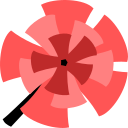
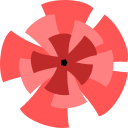
Put flowers on their own pedicels

Changed region(s): [[0.0, 0.6562, 0.3438, 1.0]]

diff --git a/src/pedicel.js b/src/pedicel.js
@@ -1,0 +1,52 @@
+(() => {
+    'use strict'
+
+    const { Vec2 } = window.joq
+
+    const step = 9.
+
+    function Pedicel (position, rotation, rotationIncrement) {
+        this.alive = true
+
+        this.position = position.clone()
+        this.rotation = rotation
+
+        this.rotationIncrement = rotationIncrement
+        this.scale = .9
+
+        this.cooldown = 40
+    }
+
+    Pedicel.prototype.tick = function (blobbery, plant) {
+        console.log(this.cooldown)
+        blobbery.add('body', this.position, this.rotation, this.scale)
+
+        this.position.add(new Vec2(
+            Math.cos(this.rotation) * this.scale * step,
+            Math.sin(this.rotation) * this.scale * step,
+        ))
+
+        this.rotation += this.rotationIncrement
+        this.rotationIncrement *= 1.02
+
+        if (this.scale > .1) {
+            this.scale -= .01
+        } else {
+            this.scale = .1
+            this.alive = false
+            blobbery.add('flower', this.position, this.rotation, Math.random() * .5 + .5)
+            return
+        }
+
+        if (this.cooldown > 0) {
+            this.cooldown--
+        } else {
+            this.alive = false
+            blobbery.add('flower', this.position, this.rotation, Math.random() * .5 + .5)
+        }
+    }
+
+    Object.assign(window.joq, {
+        Pedicel,
+    })
+})()

diff --git a/src/branch.js b/src/branch.js
@@ -1,7 +1,7 @@
 (() => {
     'use strict'
 
-    const { Vec2 } = window.joq
+    const { Pedicel, Vec2 } = window.joq
 
     const step = 9.
 
@@ -44,14 +44,21 @@
         } else {
             this.cooldown = Math.floor(Math.random() * 6 + 6)
 
-            const random = Math.random()
+            if (plant.bareMode) {
+                blobbery.add('needle', this.position, this.rotation, Math.random() * .5 + .5)
+            } else {
+                const random = Math.random()
 
-            const image = plant.bareMode ? 'needle'
-                : random > .7 ? 'leaf'
-                : random > .6 ? 'flower'
-                : 'needle'
+                if (random > .9) {
+                    const pedicel = new Pedicel(this.position, this.rotation, -this.rotationIncrement * 1.3)
+                    pedicel.scale = this.scale * .7
 
-            blobbery.add(image, this.position, this.rotation, Math.random() * .5 + .5)
+                    plant.add(pedicel)
+                } else {
+                    const image = random > .6 ? 'leaf' : 'needle'
+                    blobbery.add(image, this.position, this.rotation, Math.random() * .5 + .5)
+                }
+            }
         }
     }
 

diff --git a/index.html b/index.html
@@ -42,6 +42,7 @@
     <script src="src/vec2.js"></script>
     <script src="src/renderer.js"></script>
 
+    <script src="src/pedicel.js"></script>
     <script src="src/branch.js"></script>
     <script src="src/trunk.js"></script>
 

diff --git a/src/image-definitions.js b/src/image-definitions.js
@@ -16,7 +16,7 @@
         },
         'flower': {
             url: 'art/flower.png',
-            anchor: { x: .01, y: .99 },
+            anchor: { x: .5, y: .5 },
         },
     }
 
